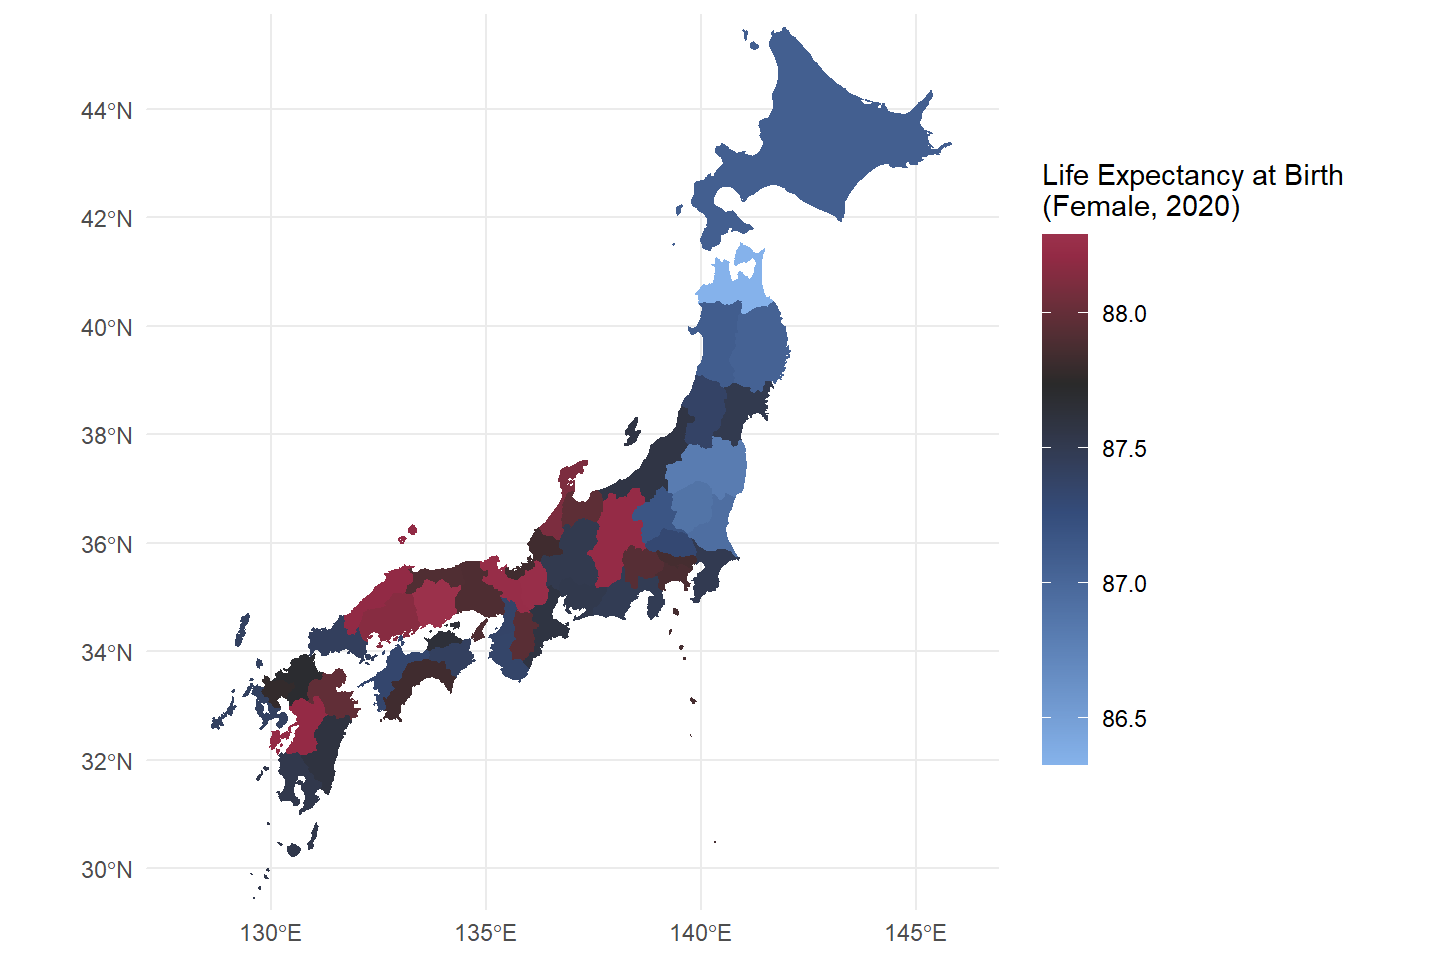
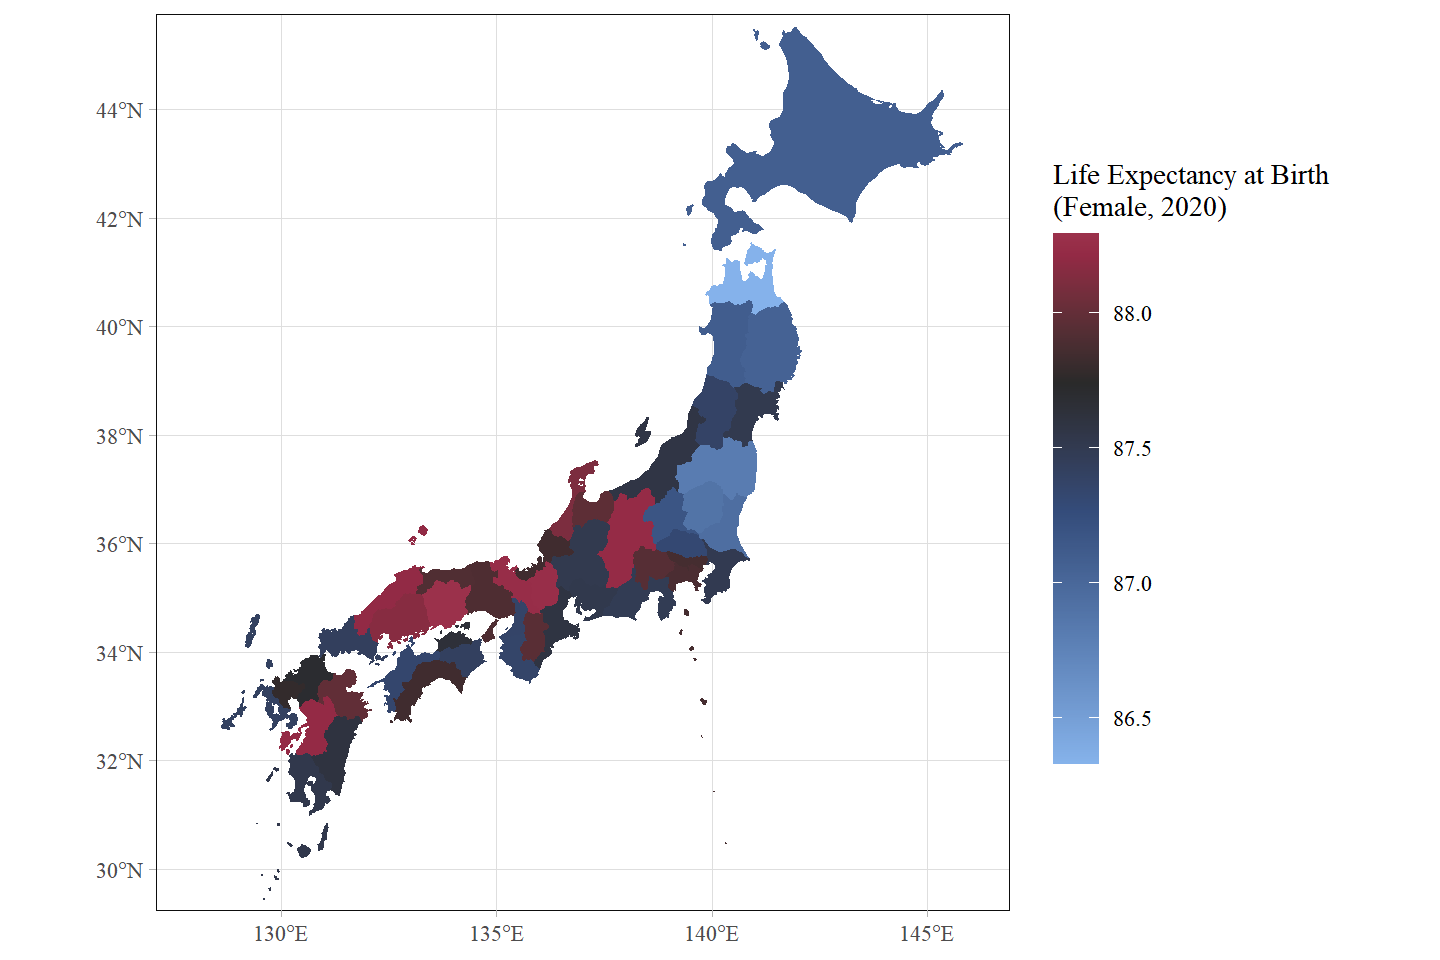
update docs

diff --git a/docs/index.html b/docs/index.html
@@ -291,7 +291,7 @@ Attaching package: 'dplyr'</code></pre>
 <span id="cb19-28"><a href="#cb19-28" aria-hidden="true" tabindex="-1"></a>    <span class="at">xlim =</span> <span class="fu">c</span>(<span class="dv">128</span>, <span class="dv">146</span>), <span class="at">ylim =</span> <span class="fu">c</span>(<span class="dv">30</span>, <span class="dv">45</span>)</span>
 <span id="cb19-29"><a href="#cb19-29" aria-hidden="true" tabindex="-1"></a>  ) <span class="sc">+</span></span>
 <span id="cb19-30"><a href="#cb19-30" aria-hidden="true" tabindex="-1"></a>  <span class="fu">labs</span>(<span class="at">fill =</span> legend_label, <span class="at">color =</span> legend_label) <span class="sc">+</span></span>
-<span id="cb19-31"><a href="#cb19-31" aria-hidden="true" tabindex="-1"></a>  <span class="fu">theme_minimal</span>() <span class="sc">+</span></span>
+<span id="cb19-31"><a href="#cb19-31" aria-hidden="true" tabindex="-1"></a>  <span class="fu">theme_midr</span>(<span class="at">grid =</span> <span class="st">"xy"</span>) <span class="sc">+</span></span>
 <span id="cb19-32"><a href="#cb19-32" aria-hidden="true" tabindex="-1"></a>  <span class="fu">theme</span>(<span class="at">legend.key.height =</span> <span class="fu">unit</span>(<span class="dv">40</span>, <span class="st">"pt"</span>))</span></code></pre></div><button title="Copy to Clipboard" class="code-copy-button"><i class="bi"></i></button></div>
 <div class="cell-output-display">
 <div>
@@ -323,7 +323,7 @@ Attaching package: 'dplyr'</code></pre>
 <span id="cb20-19"><a href="#cb20-19" aria-hidden="true" tabindex="-1"></a>    <span class="at">size =</span> <span class="st">"Weight"</span>,</span>
 <span id="cb20-20"><a href="#cb20-20" aria-hidden="true" tabindex="-1"></a>    <span class="at">color =</span> <span class="st">"Cylinders"</span></span>
 <span id="cb20-21"><a href="#cb20-21" aria-hidden="true" tabindex="-1"></a>  ) <span class="sc">+</span></span>
-<span id="cb20-22"><a href="#cb20-22" aria-hidden="true" tabindex="-1"></a>  <span class="fu">theme_bw</span>()</span></code></pre></div><button title="Copy to Clipboard" class="code-copy-button"><i class="bi"></i></button></div>
+<span id="cb20-22"><a href="#cb20-22" aria-hidden="true" tabindex="-1"></a>  <span class="fu">theme_midr</span>(<span class="at">grid =</span> <span class="st">"xy"</span>)</span></code></pre></div><button title="Copy to Clipboard" class="code-copy-button"><i class="bi"></i></button></div>
 <div class="cell-output-display">
 <div>
 <figure class="figure">
